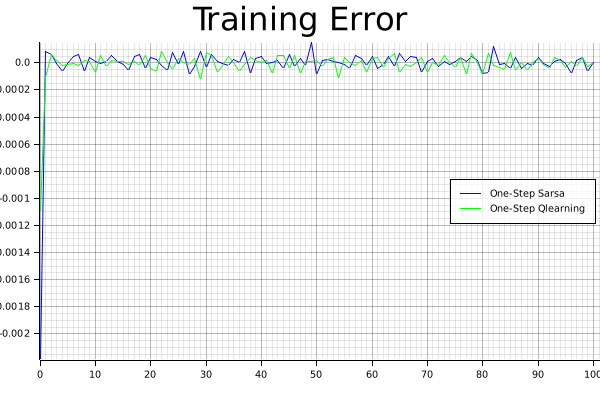
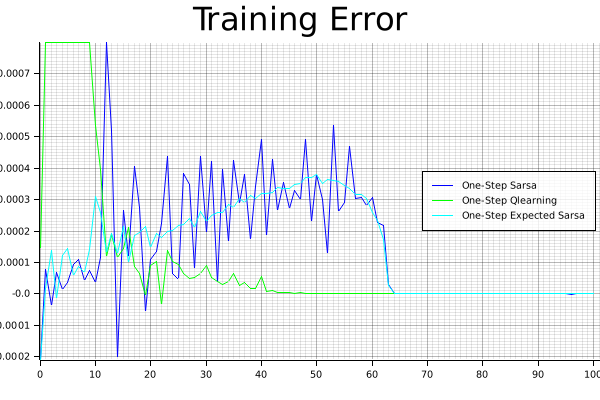
add frozen_lake (again)

Changed region(s): [[0.0, 0.09, 1.0, 0.9], [0.99, 0.48, 1.0, 0.51]]

diff --git a/src/bin/frozen_lake.rs b/src/bin/frozen_lake.rs
@@ -1,10 +1,9 @@
-use std::f32::consts::E;
 use std::time::Instant;
 
 use plotters::style::{BLUE, GREEN, RED, YELLOW, CYAN, MAGENTA};
 
 use reinforcement_learning::agent::Agent;
-use reinforcement_learning::env::BlackJackEnv;
+use reinforcement_learning::env::FrozenLakeEnv;
 use reinforcement_learning::utils::{moving_average, plot_moving_average};
 use reinforcement_learning::agent::{OneStepTabularEGreedySarsa, OneStepTabularEGreedyQLearning, OneStepTabularEGreedyExpectedSarsa};
 
@@ -16,6 +15,14 @@ use structopt::StructOpt;
 #[derive(StructOpt, Debug)]
 #[structopt(name = "RLRust - BlackJack")]
 struct Cli {
+
+    /// Should the env be stochastic
+    #[structopt(long = "stochastic_env")]
+    stochastic_env: bool,
+
+    /// Change the env's map, if possible
+    #[structopt(long = "map", default_value = "4x4")]
+    map: String,
 
     /// Show example of episode
     #[structopt(long = "show_example")]
@@ -32,14 +39,6 @@ struct Cli {
     /// Learning rate of the RL agent
     #[structopt(long = "learning_rate", default_value = "0.05")]
     learning_rate: f64,
-
-    /// Action selection strategy: 0 - uniform epsilon greed, 1 - upper confidence bound
-    #[structopt(long = "action_selection", default_value = "0")]
-    action_selection: u8,
-
-    /// Policy type: 0 - basic policy, 1 - double policy
-    #[structopt(long = "policy_type", default_value = "0")]
-    policy_type: u8,
 
     /// Initial value for the exploration ratio
     #[structopt(long = "initial_epsilon", default_value = "1.0")]
@@ -79,7 +78,7 @@ fn main() {
 
     let learning_rate: f64 = cli.learning_rate;
     let initial_epsilon: f64 = cli.initial_epsilon;
-    let epsilon_decay: f64 = if cli.epsilon_decay.is_nan() {initial_epsilon / (9.0 * n_episodes as f64 / 10.0)} else {cli.epsilon_decay};
+    let epsilon_decay: f64 = if cli.epsilon_decay.is_nan() {initial_epsilon / (n_episodes as f64 / 2.0)} else {cli.epsilon_decay};
     let final_epsilon: f64 = cli.final_epsilon;
     let confidence_level: f64 = cli.confidence_level;
     let discount_factor: f64 = cli.discount_factor;
@@ -87,7 +86,11 @@ fn main() {
     
     let moving_average_window: usize = cli.moving_average_window;
 
-    let mut env = BlackJackEnv::new();
+    let mut env = FrozenLakeEnv::new(
+        if cli.map == "4X4" {&FrozenLakeEnv::MAP_4X4} else {&FrozenLakeEnv::MAP_8X8},
+        cli.stochastic_env,
+        max_steps
+    );
     
     let mut rewards: Vec<Vec<f64>> = vec![];
     let mut episodes_length: Vec<Vec<f64>> = vec![];
@@ -109,7 +112,7 @@ fn main() {
         // &YELLOW
     ].to_vec();
 
-    let mut sarsa: OneStepTabularEGreedySarsa<usize, 2> = OneStepTabularEGreedySarsa::new(
+    let mut sarsa: OneStepTabularEGreedySarsa<usize, 4> = OneStepTabularEGreedySarsa::new(
         0.0,
         learning_rate,
         discount_factor,
@@ -118,7 +121,7 @@ fn main() {
         final_epsilon
     );
 
-    let mut qlearning: OneStepTabularEGreedyQLearning<usize, 2> = OneStepTabularEGreedyQLearning::new(
+    let mut qlearning: OneStepTabularEGreedyQLearning<usize, 4> = OneStepTabularEGreedyQLearning::new(
         0.0,
         learning_rate,
         discount_factor,
@@ -127,7 +130,7 @@ fn main() {
         final_epsilon
     );
 
-    let mut expected_sarsa: OneStepTabularEGreedyExpectedSarsa<usize, 2> = OneStepTabularEGreedyExpectedSarsa::new(
+    let mut expected_sarsa: OneStepTabularEGreedyExpectedSarsa<usize, 4> = OneStepTabularEGreedyExpectedSarsa::new(
         0.0,
         learning_rate,
         discount_factor,
@@ -136,7 +139,7 @@ fn main() {
         final_epsilon
     );
 
-    let mut agents: Vec<&mut dyn Agent<usize, 2>> = vec![];
+    let mut agents: Vec<&mut dyn Agent<usize, 4>> = vec![];
     agents.push(&mut sarsa);
     agents.push(&mut qlearning);
     agents.push(&mut expected_sarsa);

diff --git a/src/agent/expected_sarsa.rs b/src/agent/expected_sarsa.rs
@@ -1,11 +1,11 @@
 use fxhash::FxHashMap;
 use rand::{distributions::Uniform, prelude::Distribution};
 use std::hash::Hash;
-use crate::utils::argmax;
+use crate::utils::{max, argmax};
 use std::fmt::Debug;
 use super::Agent;
 
-pub struct OneStepTabularEGreedySarsa<T: Hash+PartialEq+Eq+Clone+Debug, const COUNT: usize> {
+pub struct OneStepTabularEGreedyExpectedSarsa<T: Hash+PartialEq+Eq+Clone+Debug, const COUNT: usize> {
     // policy
     default: [f64; COUNT],
     policy: FxHashMap<T, [f64; COUNT]>,
@@ -22,7 +22,7 @@ pub struct OneStepTabularEGreedySarsa<T: Hash+PartialEq+Eq+Clone+Debug, const CO
     training_error: Vec<f64>,
 }
 
-impl<T: Hash+PartialEq+Eq+Clone+Debug, const COUNT: usize> OneStepTabularEGreedySarsa<T, COUNT> {
+impl<T: Hash+PartialEq+Eq+Clone+Debug, const COUNT: usize> OneStepTabularEGreedyExpectedSarsa<T, COUNT> {
     pub fn new(
         // policy
         default_value: f64,
@@ -60,7 +60,7 @@ impl<T: Hash+PartialEq+Eq+Clone+Debug, const COUNT: usize> OneStepTabularEGreedy
 
 }
 
-impl<T: Hash+PartialEq+Eq+Clone+Debug, const COUNT: usize> Agent<T, COUNT> for OneStepTabularEGreedySarsa<T, COUNT> {
+impl<T: Hash+PartialEq+Eq+Clone+Debug, const COUNT: usize> Agent<T, COUNT> for OneStepTabularEGreedyExpectedSarsa<T, COUNT> {
     fn reset(&mut self) {
         self.epsilon = self.initial_epsilon;
         self.policy = FxHashMap::default();
@@ -84,13 +84,29 @@ impl<T: Hash+PartialEq+Eq+Clone+Debug, const COUNT: usize> Agent<T, COUNT> for O
         reward: f64,
         terminated: bool,
         next_obs: &T,
-        next_action: usize
+        _next_action: usize
     ) {
-        let next_q_values = self.policy.entry(next_obs.clone()).or_insert(self.default.clone());
+        let next_q_values: &mut [f64; COUNT] = self.policy.entry(next_obs.clone()).or_insert(self.default.clone());
         
-        let future_q_value: f64 = next_q_values[next_action];
+        let policy_probs: [f64; COUNT] = [self.epsilon/COUNT as f64; COUNT];
+        let best_action_value: f64 = max(next_q_values);
         
-        let curr_q_values = self.policy.entry(curr_obs.clone()).or_insert(self.default.clone());
+        let mut n_max_action: i32 = 0;
+        for i in 0..COUNT {
+            if next_q_values[i] == best_action_value {
+                n_max_action += 1;
+            }
+        }
+        let mut future_q_value: f64 = 0.0;
+        for i in 0..COUNT {
+            if next_q_values[i] == best_action_value {
+                future_q_value += (policy_probs[i] + (1.0-self.epsilon) / n_max_action as f64) * next_q_values[i]
+            } else {
+                future_q_value += policy_probs[i] * next_q_values[i]
+            }
+        }
+        
+        let curr_q_values: &mut [f64; COUNT] = self.policy.entry(curr_obs.clone()).or_insert(self.default.clone());
         let temporal_difference: f64 = reward + self.discount_factor * future_q_value - curr_q_values[curr_action];
         curr_q_values[curr_action] = curr_q_values[curr_action] + self.learning_rate * temporal_difference;
         self.training_error.push(temporal_difference);

diff --git a/src/agent.rs b/src/agent.rs
@@ -1,11 +1,13 @@
 mod sarsa;
 mod qlearning;
+mod expected_sarsa;
 
 use std::hash::Hash;
 use std::fmt::Debug;
 
 pub use sarsa::OneStepTabularEGreedySarsa;
 pub use qlearning::OneStepTabularEGreedyQLearning;
+pub use expected_sarsa::OneStepTabularEGreedyExpectedSarsa;
 
 use crate::env::Env;
 
@@ -63,7 +65,7 @@ pub trait Agent<T: Hash+PartialEq+Eq+Clone+Debug, const COUNT: usize> {
         let mut epi_reward = 0.0;
         let mut curr_action: usize = self.get_action(&env.reset());
         let mut steps: i32 = 0;
-        for _i in 0..100 {
+        loop {
             steps+=1;
             println!("{}", env.render());
             let (next_obs, reward, terminated) = env.step(curr_action).unwrap();
